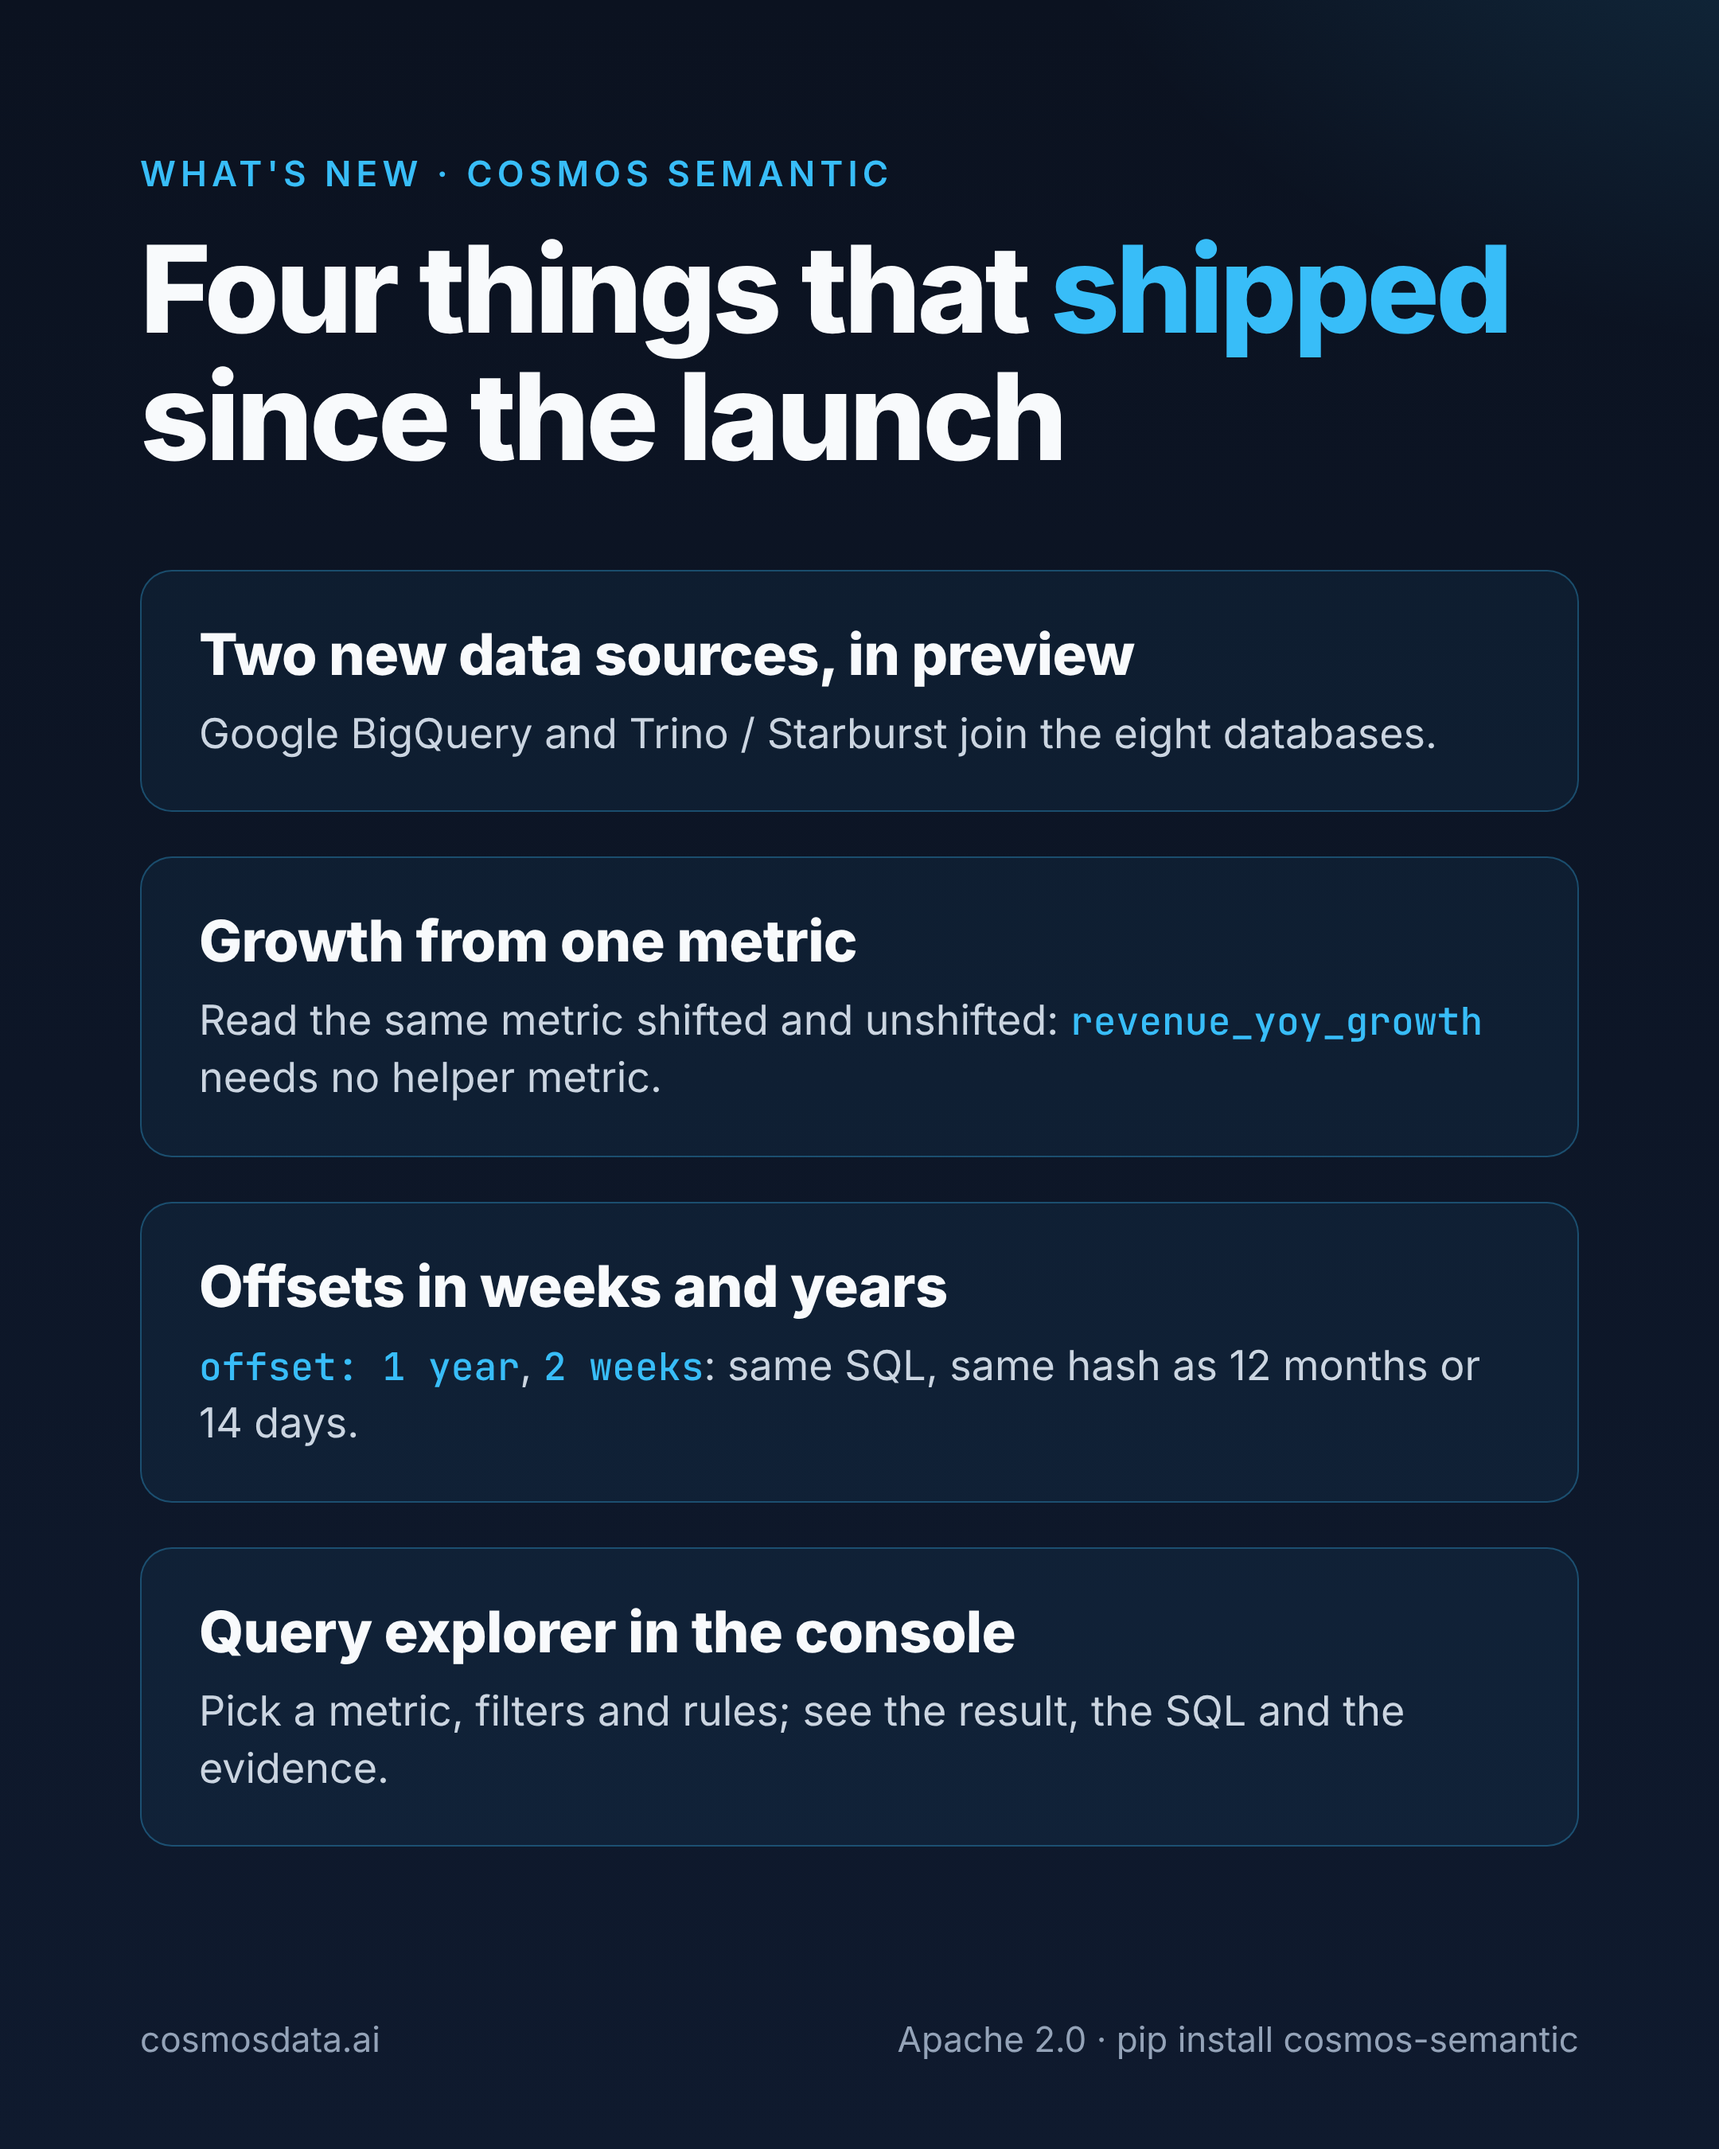
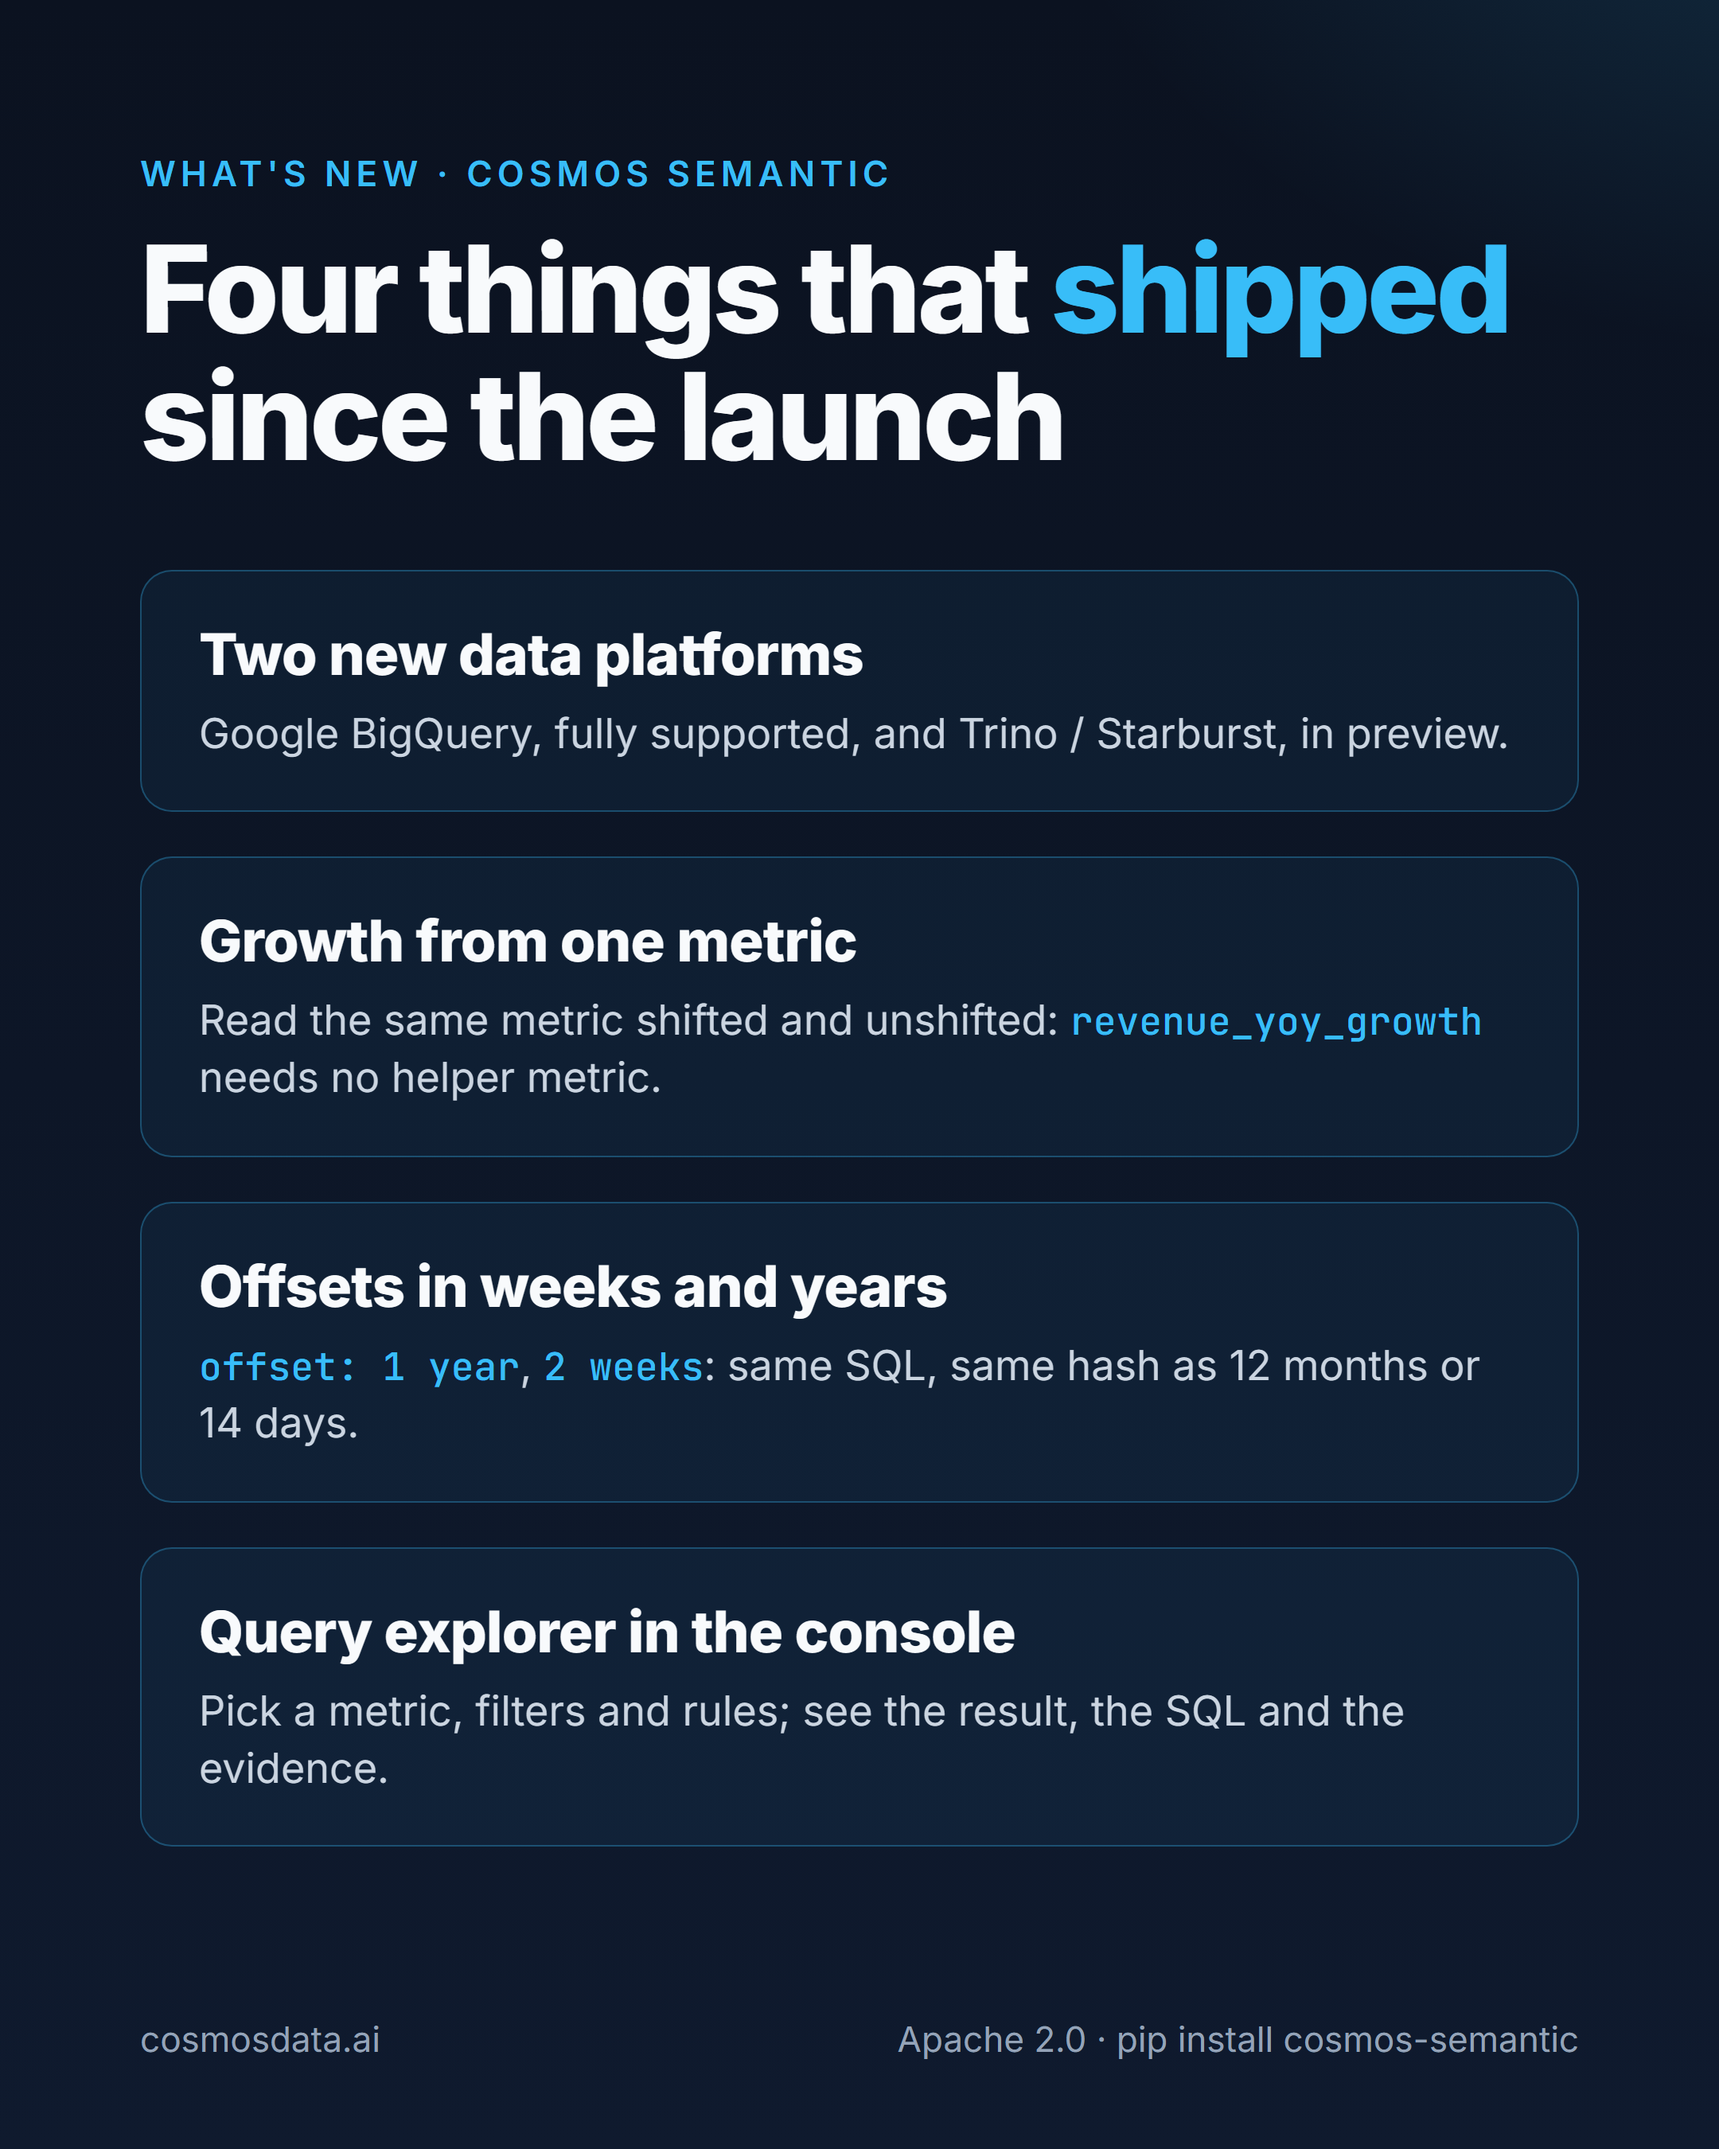
Social: BigQuery is fully supported in the what's new post
BigQuery left preview in #110; only Trino / Starburst is in preview,
and only Trino runs in CI.

Changed region(s): [[0.3412, 0.28, 0.7444, 0.3733], [0.7755, 0.3111, 0.8375, 0.3733]]

diff --git a/marketing/linkedin/posts/2026-11-23-whats-new/card.html b/marketing/linkedin/posts/2026-11-23-whats-new/card.html
@@ -21,7 +21,7 @@ code{font:500 24px "JetBrains Mono",monospace;color:var(--sky)}
 <div class="kicker">What's new · Cosmos Semantic</div>
 <h1>Four things that <b>shipped</b> since the launch</h1>
 <div class="items">
-<div class="item"><h3>Two new data sources, in preview</h3><p>Google BigQuery and Trino / Starburst join the eight databases.</p></div>
+<div class="item"><h3>Two new data platforms</h3><p>Google BigQuery, fully supported, and Trino / Starburst, in preview.</p></div>
 <div class="item"><h3>Growth from one metric</h3><p>Read the same metric shifted and unshifted: <code>revenue_yoy_growth</code> needs no helper metric.</p></div>
 <div class="item"><h3>Offsets in weeks and years</h3><p><code>offset: 1 year</code>, <code>2 weeks</code>: same SQL, same hash as 12 months or 14 days.</p></div>
 <div class="item"><h3>Query explorer in the console</h3><p>Pick a metric, filters and rules; see the result, the SQL and the evidence.</p></div>

diff --git a/marketing/linkedin/posts/2026-11-23-whats-new/post.md b/marketing/linkedin/posts/2026-11-23-whats-new/post.md
@@ -6,7 +6,7 @@ What merged since the launch week, in user terms.
 
 What's new in Cosmos Semantic since launch week:
 
-1. Two more data sources, in preview: Google BigQuery and Trino / Starburst. They join Databricks, Snowflake, Oracle, SQL Server, PostgreSQL, MySQL, MariaDB and DuckDB, and the same model is checked against them in CI.
+1. Two more data platforms: Google BigQuery, now fully supported and validated on a live project, and Trino / Starburst, in preview and checked in CI against a Trino container. They join Databricks, Snowflake, Oracle, SQL Server, PostgreSQL, MySQL, MariaDB and DuckDB.
 
 2. Growth from a single metric. A derived metric can read the same input shifted and unshifted, so year-over-year growth is one definition, with no helper metric:
 (revenue - revenue_year_before) / revenue_year_before
@@ -24,8 +24,8 @@ Changelog: https://github.com/WiliamRosa/cosmos-semantic-platform/blob/main/CHAN
 
 ## Sources
 
-- BigQuery in preview (DEC-40, PR #100) and Trino / Starburst in preview (DEC-43, PR #104): [CHANGELOG](https://github.com/WiliamRosa/cosmos-semantic-platform/blob/main/CHANGELOG.md) `[Unreleased]`, "Added"; [README](https://github.com/WiliamRosa/cosmos-semantic-platform/blob/main/README.md) "Multi-database" row. The eight databases: same row.
-- "Checked against them in CI": CHANGELOG, Trino entry ("CI runs the suites against a Trino container") and BigQuery entry (BigQuery suites).
+- BigQuery fully supported (DEC-40, PRs #100 and #110: live run on a BigQuery project, out of preview) and Trino / Starburst in preview (DEC-43, PR #104): [CHANGELOG](https://github.com/WiliamRosa/cosmos-semantic-platform/blob/main/CHANGELOG.md) `[Unreleased]`, "Added"; [README](https://github.com/WiliamRosa/cosmos-semantic-platform/blob/main/README.md) "Multi-database" row. The eight databases: same row.
+- "Checked in CI against a Trino container": CHANGELOG, Trino entry. BigQuery is not run in CI (no credentials); it is validated by the maintainer's live run (ADR 0016).
 - Growth in one metric (DEC-44, PR #105): CHANGELOG, "Growth in one metric"; example metric `revenue_yoy_growth` in `examples/ecommerce/semantic/sales.yml`.
 - Offsets in weeks and years (DEC-46, PR #102): CHANGELOG, "Offsets in weeks and years" (same SQL and `sql_hash` as `14 days` or `12 months`; evidence keeps the offset as written).
 - Query explorer (DEC-41, PR #90): CHANGELOG, "A query explorer in the console" (row filters apply, every run audited).
